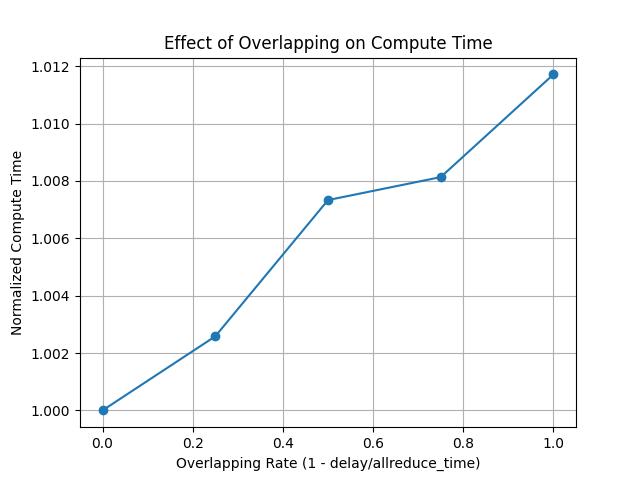
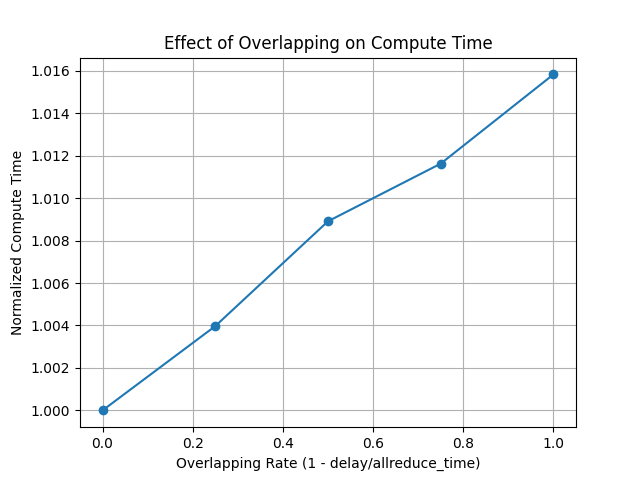
Code Modification

diff --git a/test_overlap.py b/test_overlap.py
@@ -1,0 +1,143 @@
+import os
+import time
+import argparse
+import threading
+import torch
+import torch.distributed
+from torch import nn
+from torch.distributed.distributed_c10d import get_world_size
+from torch.nn.modules import module
+from torch.profiler import profile, ProfilerActivity
+torch_profiler = profile(
+    activities=[ProfilerActivity.CPU, ProfilerActivity.CUDA],
+    with_stack=True,
+    with_modules=True,
+)
+
+torch.distributed.init_process_group('nccl')
+rank = torch.distributed.get_rank()
+num_ranks = torch.distributed.get_world_size()
+# simpleimc.torch.ops.init(rank, num_ranks, -1, 0)
+device = torch.device('cuda', rank)
+print(f"rank {rank} reporting")
+dtype=torch.float
+dim = 12288
+batch_size = 4
+seq_len = 2048
+micro_iter = 1
+iter = 20
+comm_type = "allreduce"
+# comm_type = "reduce_scatter"
+# comm_type = "allgather"
+
+def get_input() -> torch.Tensor:
+    return torch.randn(batch_size, seq_len, dim, device=device, dtype=dtype)
+
+class PureMatMut(nn.Module):
+    def __init__(self, dim):
+        super().__init__()
+        self.fc = nn.Linear(dim, dim, bias=True, dtype=dtype)
+    def forward(self, x):
+        torch.distributed.barrier()
+        for i in range(micro_iter):
+            x = self.fc(x)
+        return x
+
+class PureNccl(nn.Module):
+    def __init__(self) -> None:
+        super().__init__()
+        self.buffer = torch.randn(num_ranks, batch_size, seq_len, dim, device=device, dtype=dtype)
+    def forward(self, x):
+        assert isinstance(x, list)
+        if comm_type in ["allreduce"]:
+            x = torch.concat(x)
+        torch.distributed.barrier()
+        for i in range(micro_iter):
+            if comm_type == "allreduce":
+                torch.distributed.all_reduce(x, op=torch.distributed.ReduceOp.AVG)
+            elif comm_type == "allgather":
+                torch.distributed._all_gather_base(self.buffer, x[rank], async_op=True)
+            else:
+                torch.distributed._reduce_scatter_base(x[rank], self.buffer, async_op=True)
+
+class MatMulNccl(nn.Module):
+    def __init__(self, dim):
+        super().__init__()
+        self.fc = nn.Linear(dim, dim, bias=True, dtype=dtype)
+        self.buffer = torch.randn(num_ranks, batch_size, seq_len, dim, device=device, dtype=dtype)
+    def forward(self, x, y):
+        assert isinstance(y, list)
+        if comm_type in ["allreduce"]:
+            y = torch.concat(y)
+        torch.distributed.barrier()
+        time_pool = 0
+        for i in range(micro_iter):
+            if comm_type == "allreduce":
+                comm_stream = torch.cuda.Stream()
+                with torch.cuda.stream(comm_stream):
+                    handle = torch.distributed.all_reduce(y, op=torch.distributed.ReduceOp.AVG, async_op=True)
+            elif comm_type == "allgather":
+                handle = torch.distributed._all_gather_base(self.buffer, y[rank], async_op=True)
+            else:
+                handle = torch.distributed._reduce_scatter_base(y[rank], self.buffer, async_op=True)
+            # handle.wait()
+            # torch.distributed.barrier()
+            
+            # compute_stream = torch.cuda.Stream()
+            # with torch.cuda.stream(compute_stream):
+            # start = torch.cuda.Event(enable_timing = True)
+            # end = torch.cuda.Event(enable_timing = True)
+            # start.record()
+            x = self.fc(x)
+            # end.record()
+            # end.synchronize()
+
+            # time_pool += start.elapsed_time(end)
+            handle.wait()
+            torch.distributed.barrier()
+        return time_pool
+
+
+def main():
+    if rank == 0:
+        nsys_filename = f"/data2/ryanyu/repos/simulation_playground/tmp.nsys_trace_{comm_type}_{int(time.time())}_{rank}.qdrep"
+    #     # time.sleep(10)
+    #     torch_profiler.start()
+    #     time.sleep(10)
+
+    time_pool = 0
+    for i in range(iter):
+        if i==10 and rank == 0:
+            print(f"iter {i}")
+            if i == 10:
+                os.system(f"nsys start -o {nsys_filename}")
+            elif i == 13:
+                os.system("nsys stop")
+            # if rank==0: 
+                # torch_profiler.start()
+            time.sleep(10)
+        
+        torch.distributed.barrier()
+        # pure_matmul = PureMatMut(dim).to(device)
+        # pure_nccl = PureNccl().to(device)
+        matmul_nccl = MatMulNccl(dim).to(device)
+        x = get_input()
+        y = [get_input() for i in range(num_ranks)]
+        # pure_matmul(x)
+        # pure_nccl(y)
+        p = matmul_nccl(x, y)
+        if (i>10):
+            print(f"{rank} {i} {p}") 
+            time_pool += p
+        
+    
+    print(f"{rank} reported time: {time_pool} ms")
+    # if rank == 0:
+        # torch_profiler.stop()
+        # filename = f"/miaoyk/yanyu_playground/simulation_playground/tmp.torch_trace_{time.time()}_{rank}.json"
+        # print(f"==== begin to dump {filename} ====")
+        # torch_profiler.export_chrome_trace(filename)
+        # print(f"==== succesfully dumped {filename} ====")
+
+
+main()

diff --git a/overlap_plot.py b/overlap_plot.py
@@ -3,7 +3,7 @@ import numpy as np
 
 if __name__ == "__main__":
     overlaps = [0, 0.25, 0.5, 0.75, 1]
-    compute_times_normalized = [0.9734838637571203, 0.975997420515524, 0.9806217117351831, 0.9814013453938705, 0.9848868931531025]
+    compute_times_normalized = [0.9886050480347868, 0.9925306502378676, 0.9974120470599451, 1.0000968306881397, 1.0042523144802433]
     compute_times_normalized = [a/compute_times_normalized[0] for a in compute_times_normalized]
     # Plotting
     plt.plot(overlaps, compute_times_normalized, marker='o')
